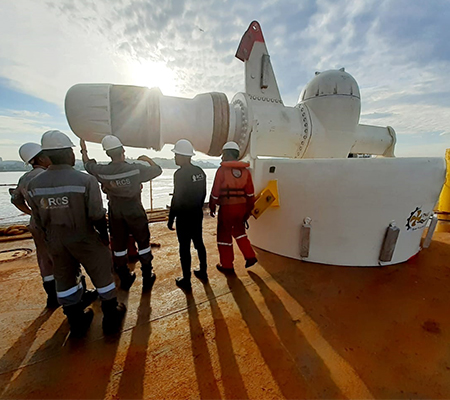
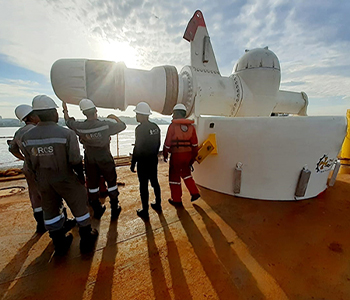
atualização do site 09.09.22 16:49

diff --git a/style.css b/style.css
@@ -135,7 +135,7 @@ ul li a:hover{
     
 }
 .containerproje .slide-container:nth-child(3) .slide{
-    background-image: url(img/trabalho/Atendnav.jpg);
+    background-image: url(img/trabalho/Atendnav2.jpg);
     background-size: cover;
     background-repeat: no-repeat;
     width: auto;
@@ -463,7 +463,7 @@ section .trab-img img{
 .estilizacao{
     display: flex;
     justify-content: center;
-    gap: 105px;
+    gap: 25px;
     margin-top: 25px;
 }
 .estilizacao li:hover{
@@ -478,7 +478,7 @@ section .trab-img img{
     font-family: 'Poppins', sans-serif;
 }
 .estilizacao li img{
-    width: 320px;
+    width: 400px;
     border-radius: 15px;
     box-shadow: 0px 0px 5px 3px rgba(0, 0, 0, 0.3);
 }

diff --git a/index.html b/index.html
@@ -346,7 +346,7 @@
                             </div>
                         </li>
                         <li>
-                            <img src="img/trabalho/obra.png" alt="Inspeção Subaquática">
+                            <img src="img/trabalho/balsa.jpeg" alt="Inspeção Subaquática">
                             <div class="conteudo">
                                 <p class="nome-secao">Inspeção Subaquática.</p>
                                 <p class="nome-secao">Relização do serviço do emissário de ipanema.</p>                                
